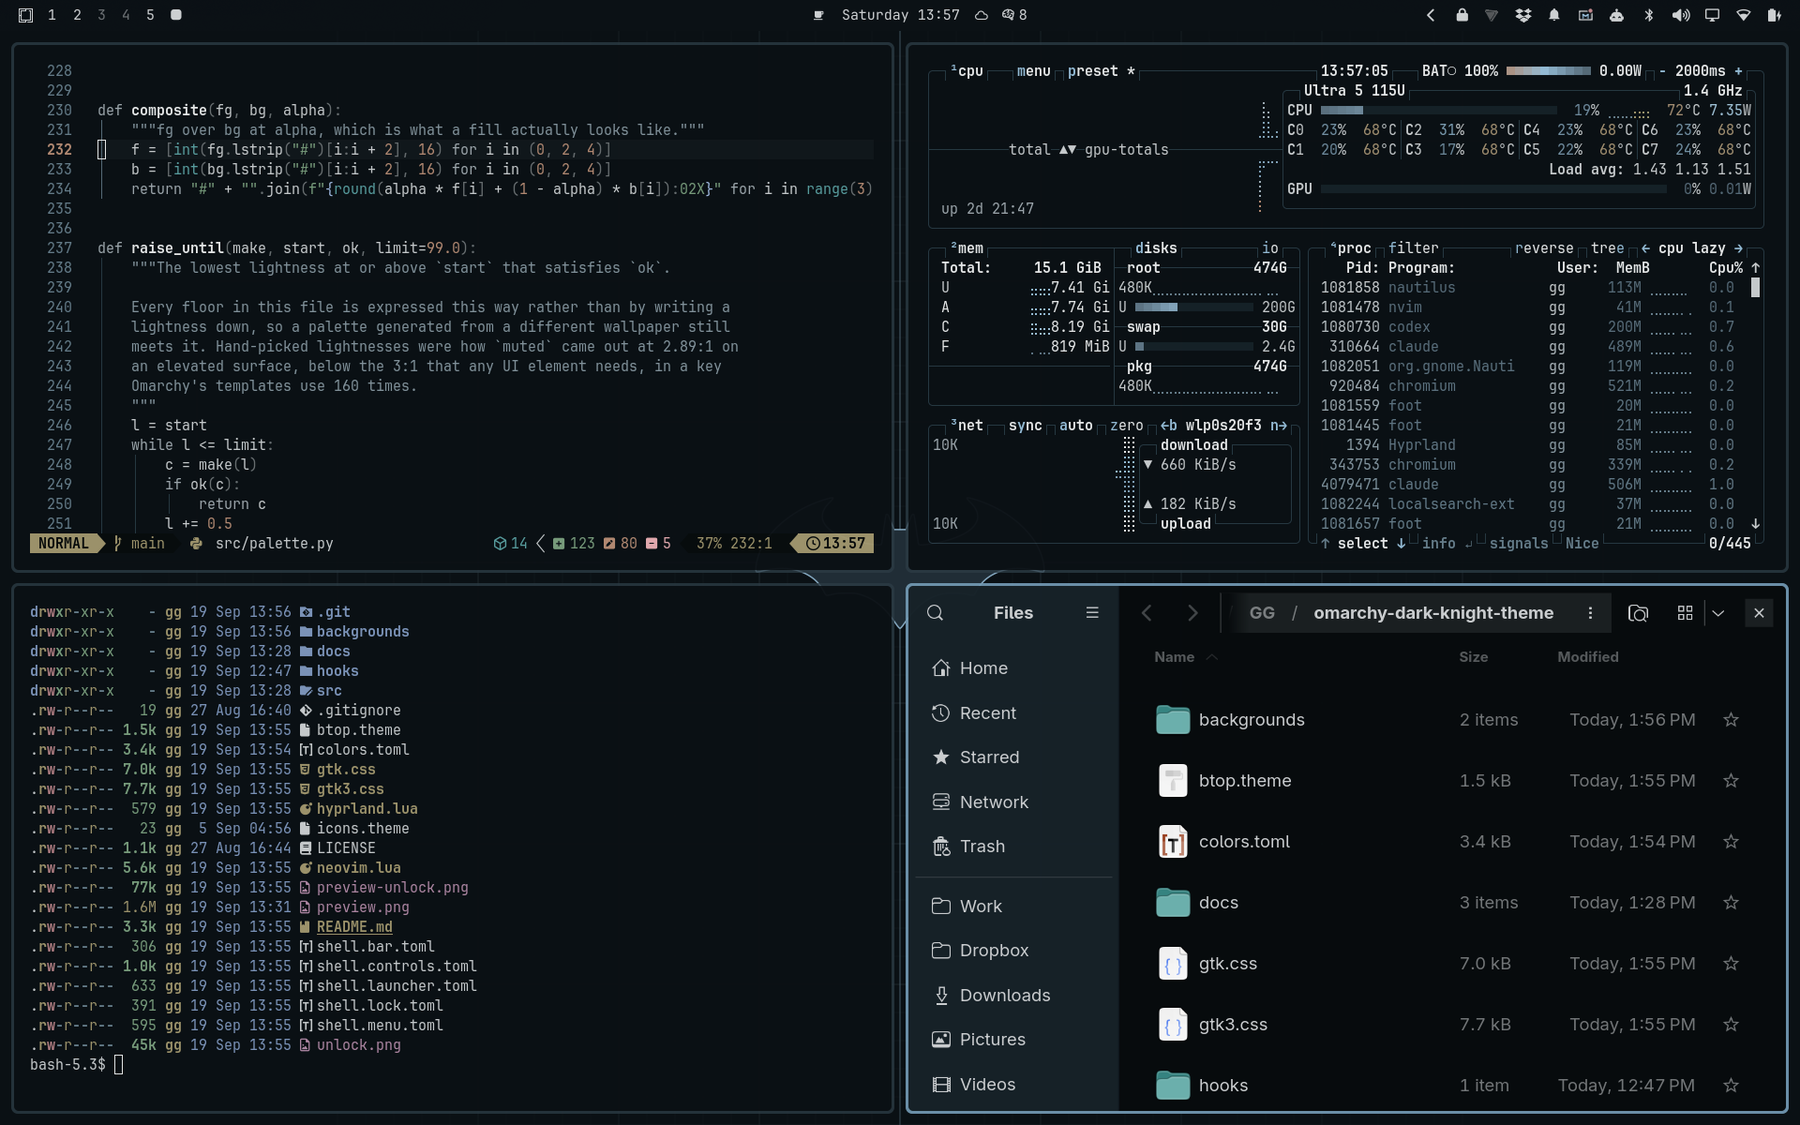
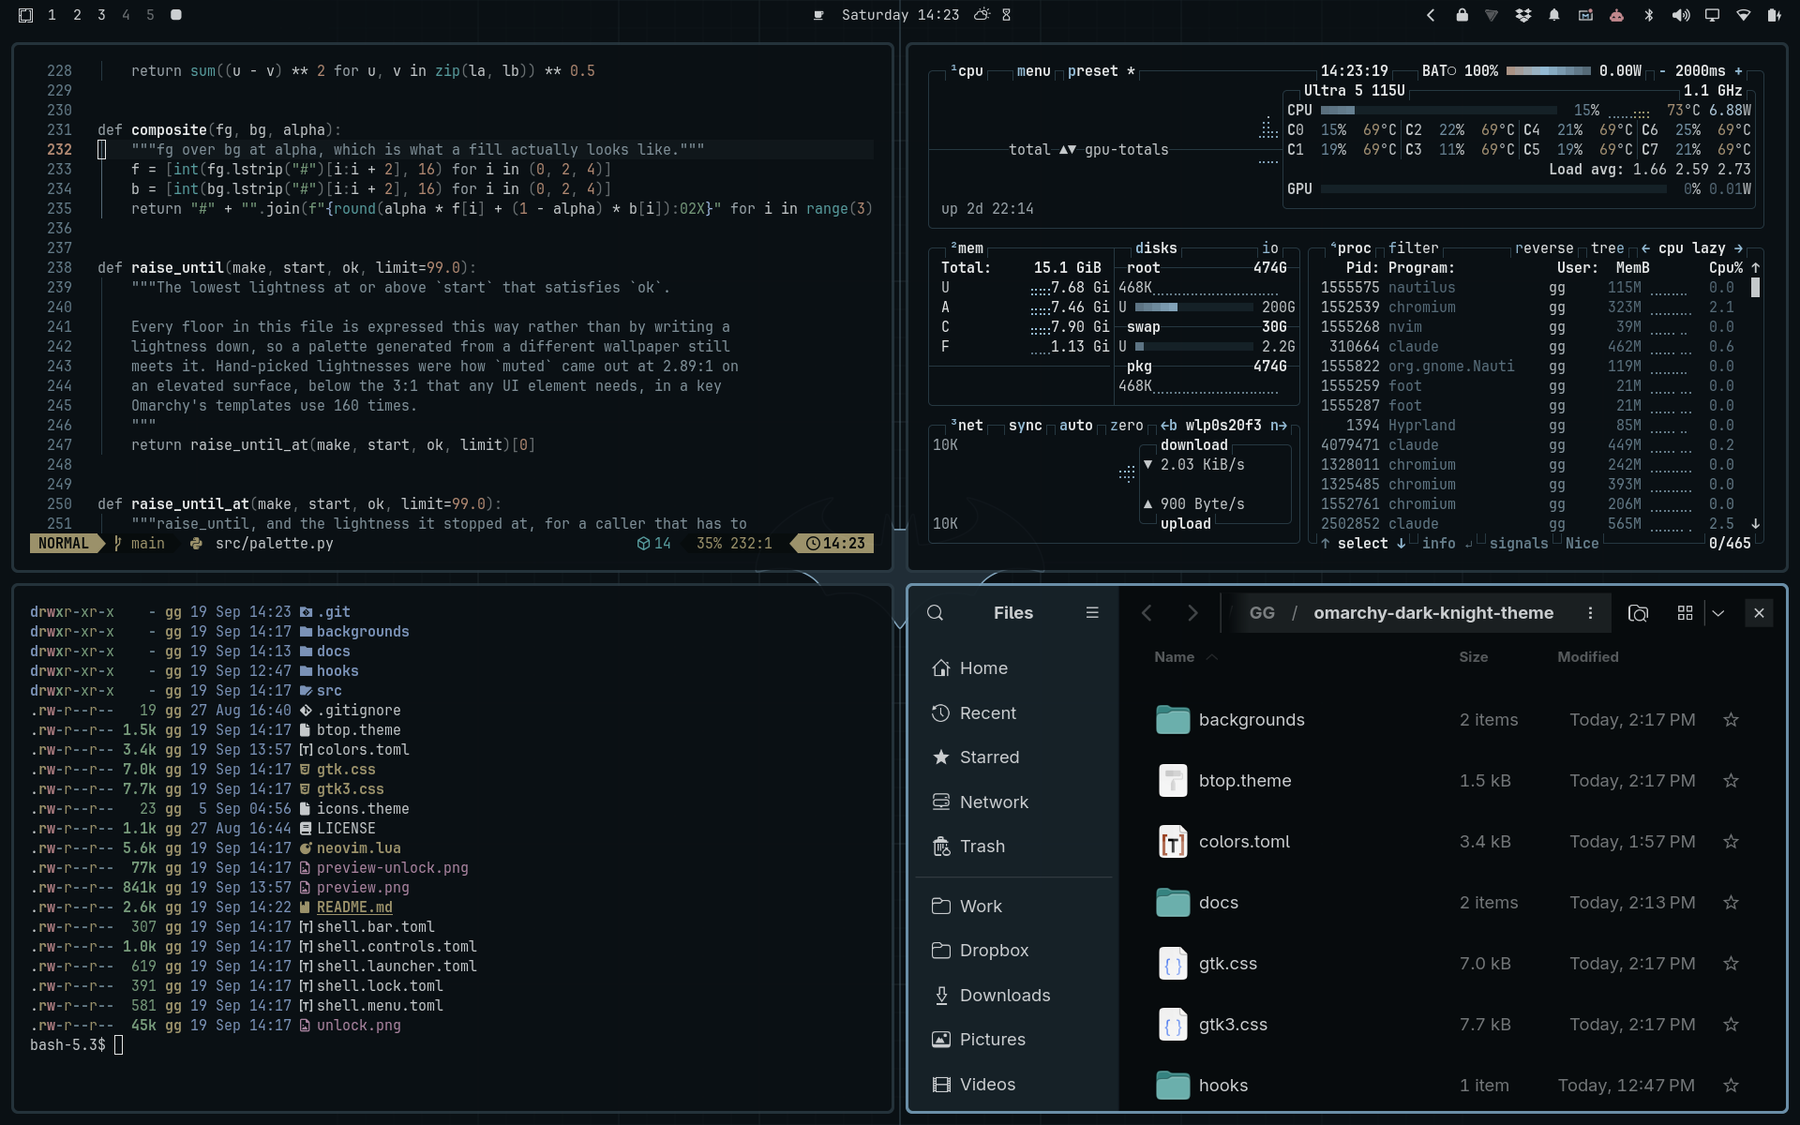
Show the wallpapers and the boot screen in the README
The README had the desktop and nothing else, and the two things a reader
cannot guess from a desktop screenshot are what the wallpapers look like and
that the boot screen matches them. Both are shown now, from the files the
theme ships, so they cannot drift from it.

preview.png is retaken: its terminal listing still showed hyprland.lua, which
the theme stopped shipping in 4064413.

Reviewed by codex, one finding, real and fixed: the README said "no
gradients", and the Origin wallpaper and the boot mark both fade their grid
lines through a radial mask. The fills are flat, and it says that now.

diff --git a/README.md b/README.md
@@ -5,8 +5,18 @@ A dark, flat, single-hue theme for [Omarchy](https://omarchy.org).
 ![Dark Knight](preview.png)
 
 One steel-blue hue, with hierarchy carried by lightness. The palette is
-generated by a script and checked against WCAG contrast floors. Flat
-throughout: no gradients, and the theme adds no glow or blur.
+generated by a script and checked against WCAG contrast floors. Every fill
+is flat, and the theme adds no glow or blur.
+
+## Previews
+
+| Grid | Origin |
+|---|---|
+| ![Grid wallpaper](backgrounds/1-grid.png) | ![Origin wallpaper](backgrounds/2-origin.png) |
+
+The boot and disk-unlock screen uses the same picture as the Origin wallpaper:
+
+![Plymouth boot screen](preview-unlock.png)
 
 ## Install
 
